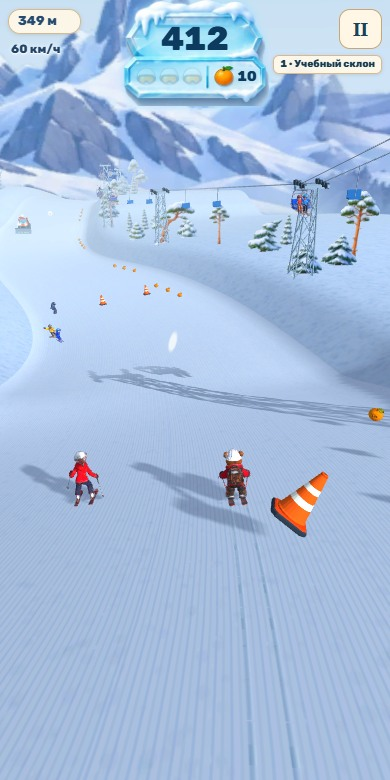
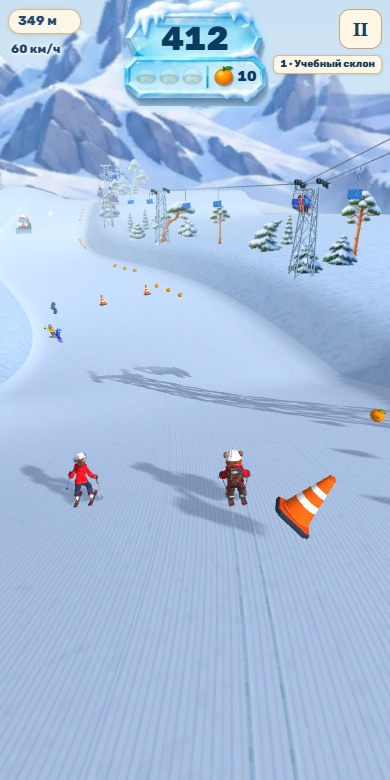
Record public cone, night and game-over checks for Telegram 21c

diff --git a/handoff/STATUS.md b/handoff/STATUS.md
@@ -14,6 +14,12 @@
 
 Полный тест Unity Play Mode прошёл все восемь этапов и перешёл на второй круг. На 20 173 м результат составил 22 272 очка. В шести дополнительных заездах собрано 45, 13, 182, 71, 47 и 19 мандаринов. При медиане 46 мандаринов личный комплект за 215 соответствует примерно пяти обычным спускам. Длинный заезд на 2 280 м дал 182 мандарина и позволил купить его раньше.
 
+На публичной сборке `b9ddb5b` проверены обычный старт за обоих героев и ночной трамплин в движении. Мишаня сбил конус на 347,5 м, Сова получила за этот створ +8. Оба взяли следующий створ и продолжили после 410 м. Главное меню загрузило действующий рейтинг. Все четыре файла Unity на боевом адресе совпали с локальной сборкой, включая WebAssembly `d554a19487f0ae9ced4295209caa927b`. [Обычная кнопка Telegram](https://t.me/belaya_sovabot/play) · [Браузер с seed 1911](https://magliot.github.io/belaya-sova/?seed=1911) · [Кадр меню](release-21c/menu.png).
+
+На финальном Web-плеере отдельно зарегистрировано реальное воспроизведение MP3. Обоими героями подобрана каска на 283 м и израсходована при столкновении на 412 м. Реплика поражения прозвучала один раз после следующего падения на 445 м — у Совы 1,94 с, у Мишани 1,04 с. Проверено в Chrome с сенсорным вводом при 390×780. Физический телефон в этой проверке не участвовал.
+
+Развёртывание и браузерная проверка релиза завершились успешно. [GitHub Pages](https://github.com/magliot/belaya-sova/actions/runs/44862218892) · [Unity Web game checks](https://github.com/magliot/belaya-sova/actions/runs/44862220864).
+
 ## Выпуск 2026-11-21b · свободный спуск
 
 Для обычной кнопки Telegram упакован тот же Unity Web-плеер `b50f25fc4f463230af563c38e7410992`, что прошёл семь приёмочных заездов. Основной вход использует профиль `unity_release_v1` и прежний адрес рейтинга Google Apps Script. У приёмки свой профиль и свой сервер. [Обычная кнопка бота](https://t.me/belaya_sovabot/play) · [Браузер, трасса 1911](https://magliot.github.io/belaya-sova/?seed=1911).
